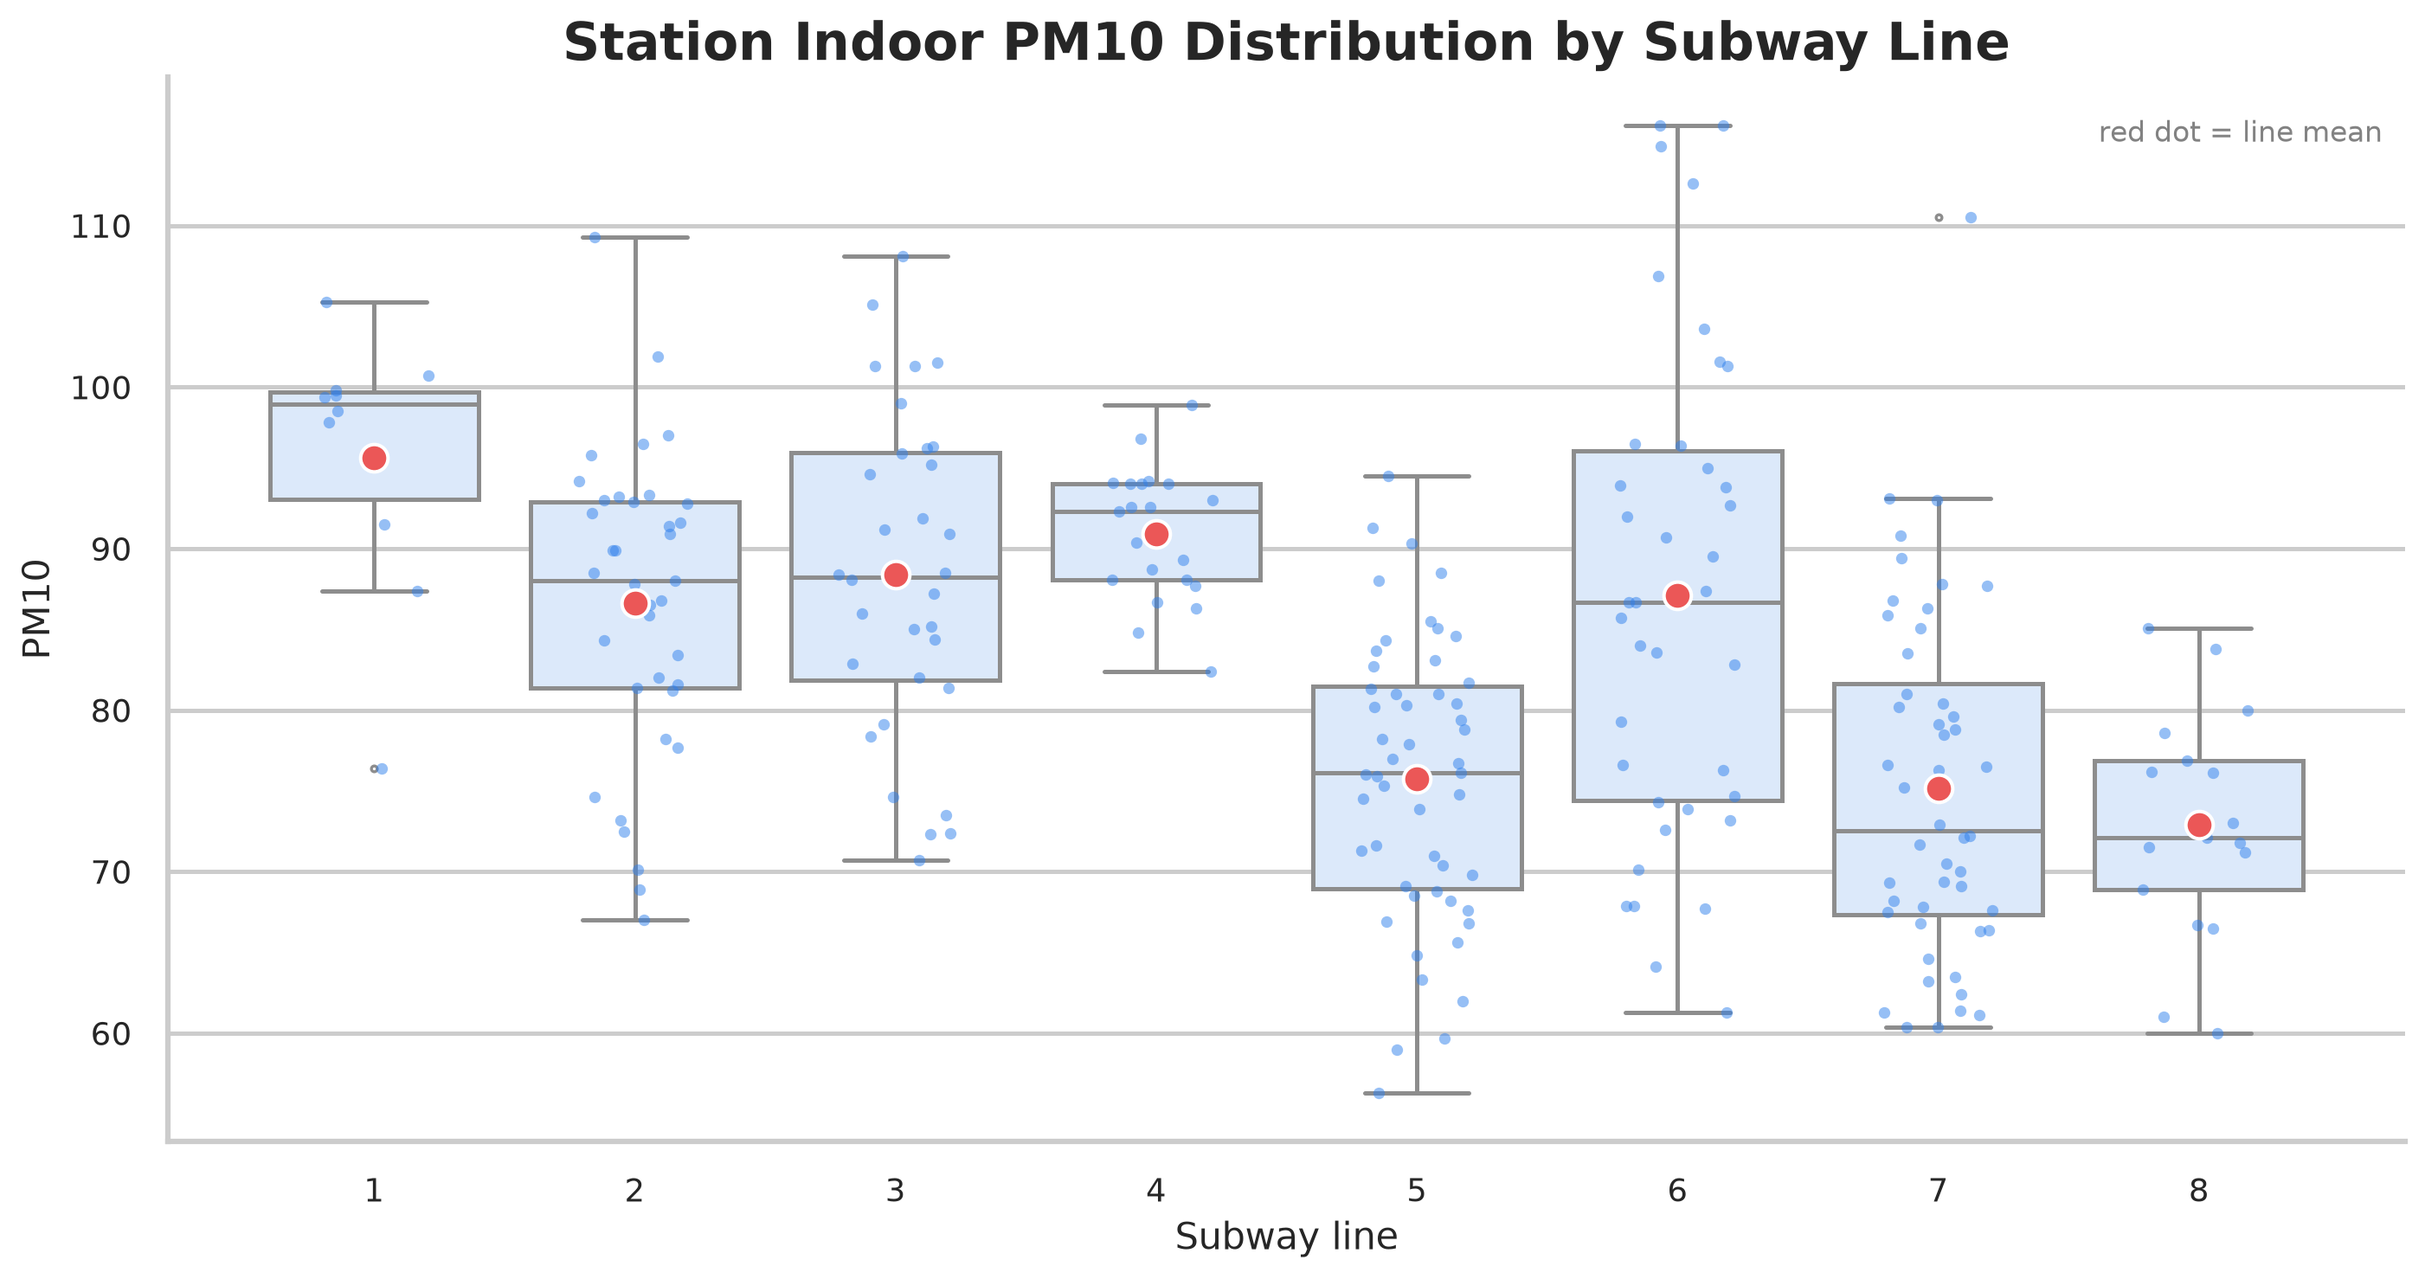
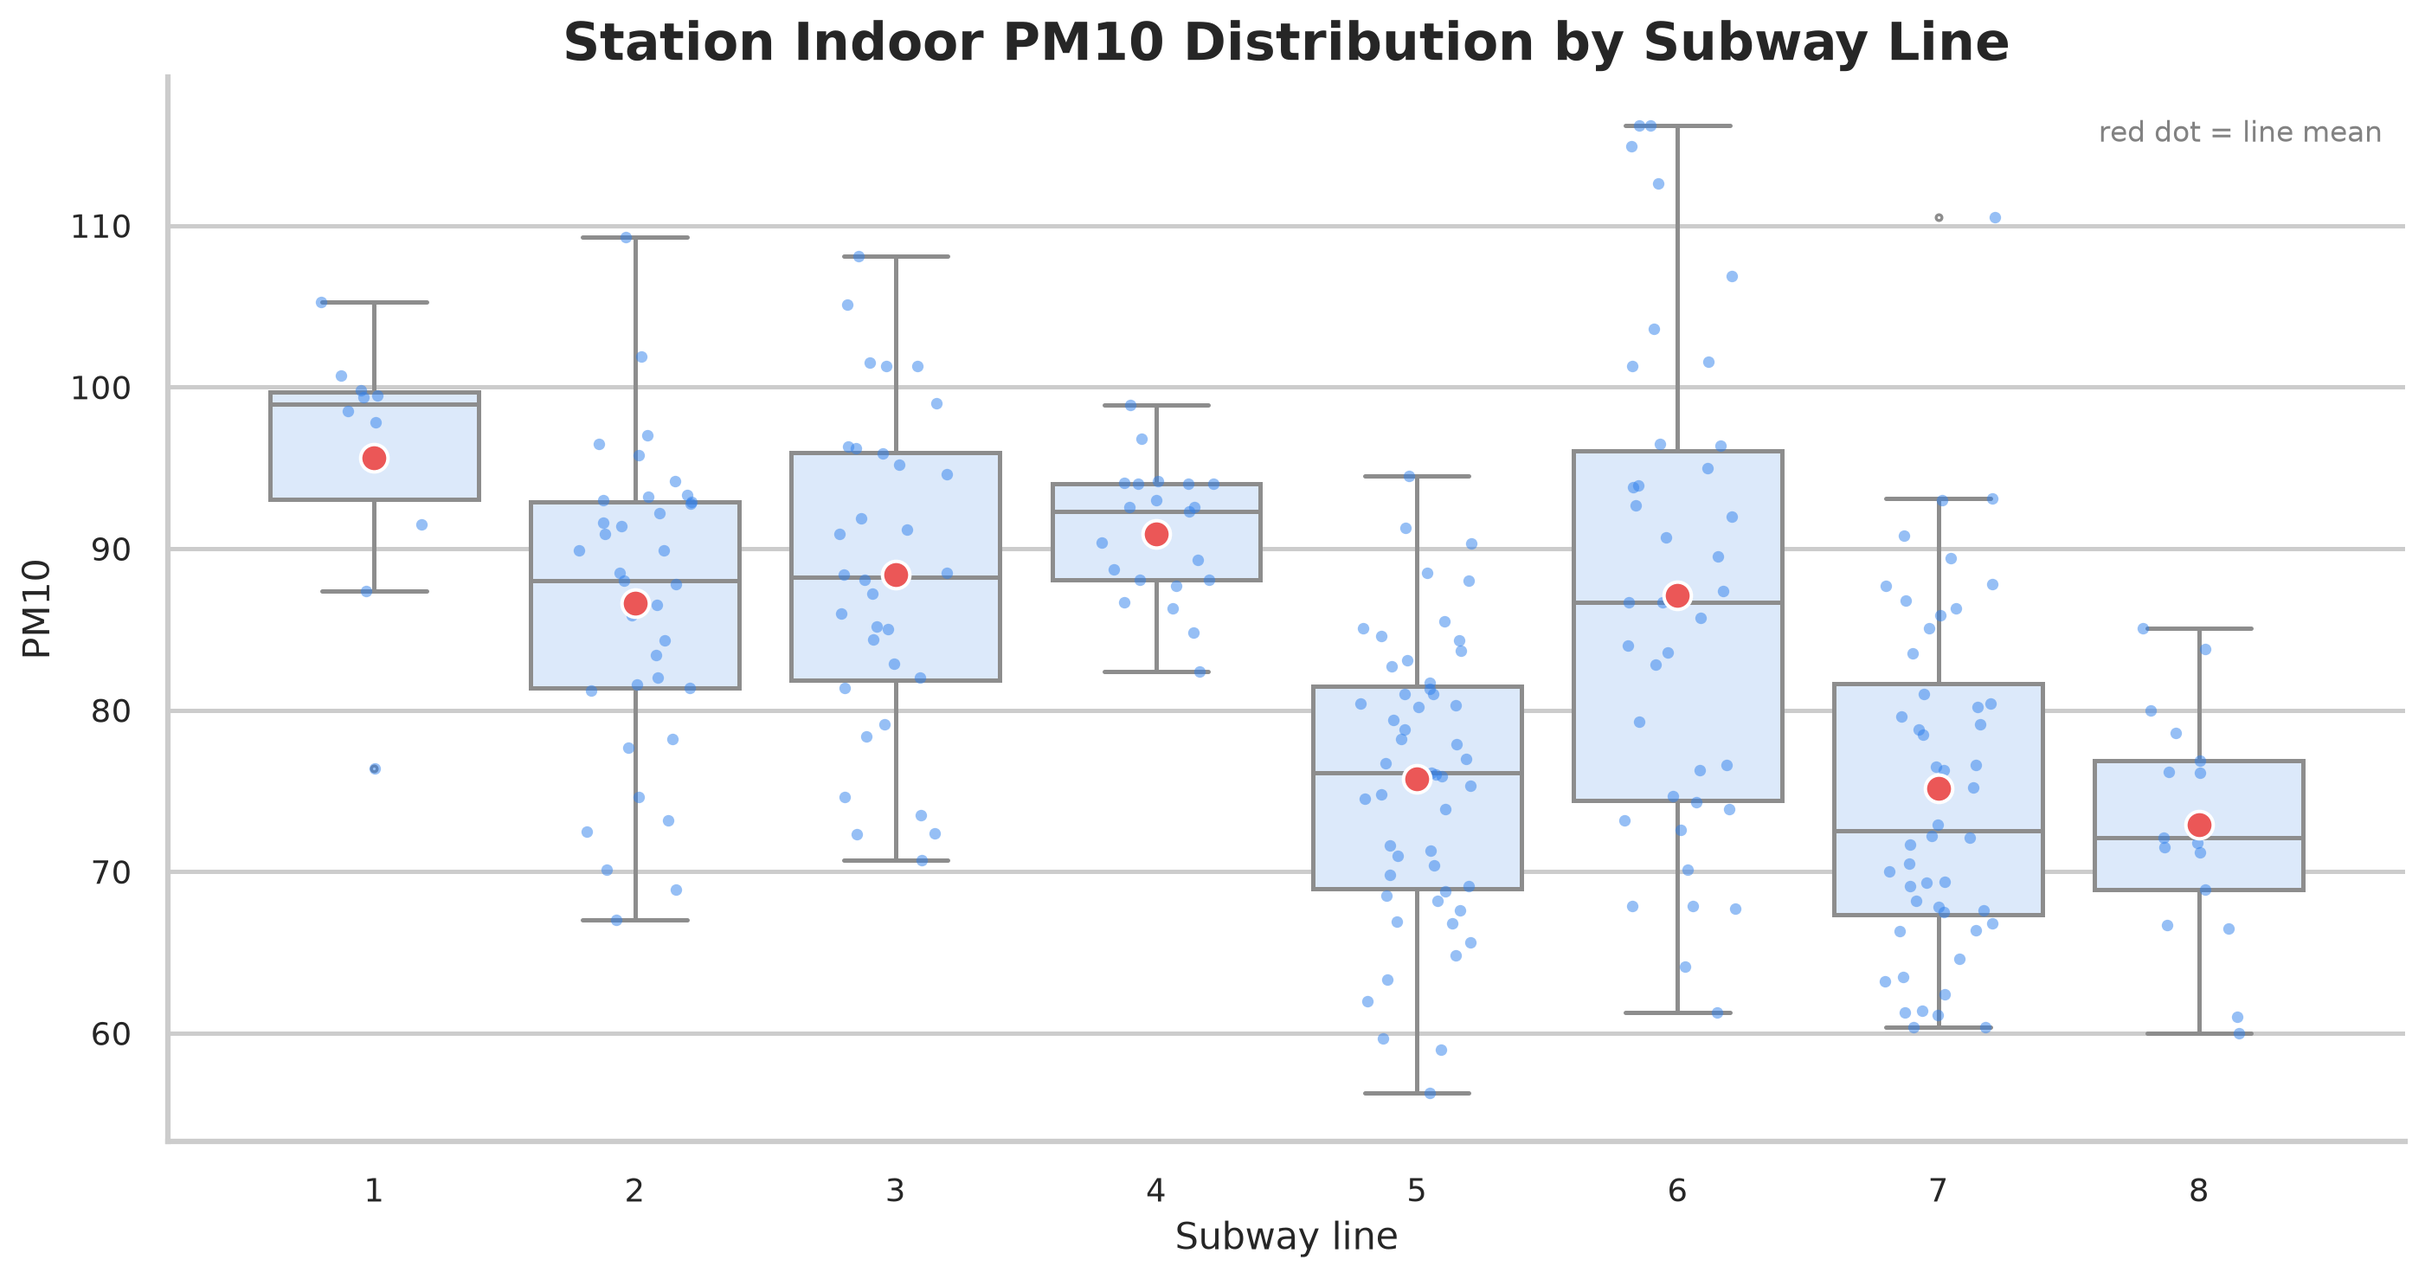
Align README with final presentation flow

diff --git a/scripts/visualize_subway_pm10.py b/scripts/visualize_subway_pm10.py
@@ -247,6 +247,43 @@ def fig_reported_ttest() -> None:
     savefig("fig07_reported_ttest_summary.png")
 
 
+def fig_group_comparison_design() -> None:
+    """Recreate the comparison logic used in the final PDF at a higher visual quality.
+
+    The original slides compare PM10 differences across groups separated by
+    train-operation frequency and congestion. This figure visualizes the design,
+    not a re-estimated test statistic.
+    """
+    groups = [
+        ("Baseline", "Low frequency\nLow congestion", PALETTE["gray"]),
+        ("Frequency effect", "High frequency\nLow congestion", PALETTE["teal"]),
+        ("Combined high", "High frequency\nHigh congestion", PALETTE["blue"]),
+    ]
+    fig, ax = plt.subplots(figsize=(12, 5.8))
+    ax.axis("off")
+    xs = [0.18, 0.5, 0.82]
+    for i, ((title, body, color), x) in enumerate(zip(groups, xs)):
+        rect = plt.Rectangle((x - 0.115, 0.38), 0.23, 0.31, transform=ax.transAxes,
+                             facecolor="white", edgecolor=color, linewidth=2.5)
+        ax.add_patch(rect)
+        ax.text(x, 0.62, title, transform=ax.transAxes, ha="center", va="center",
+                color=color, fontsize=13, fontweight="bold")
+        ax.text(x, 0.49, body, transform=ax.transAxes, ha="center", va="center",
+                color=PALETTE["navy"], fontsize=12)
+    ax.annotate("PM10 difference", xy=(0.39, 0.535), xytext=(0.29, 0.535), xycoords=ax.transAxes,
+                arrowprops=dict(arrowstyle="->", lw=2.2, color=PALETTE["teal"]),
+                ha="center", va="bottom", color=PALETTE["teal"], fontsize=11)
+    ax.annotate("PM10 difference", xy=(0.71, 0.535), xytext=(0.61, 0.535), xycoords=ax.transAxes,
+                arrowprops=dict(arrowstyle="->", lw=2.2, color=PALETTE["blue"]),
+                ha="center", va="bottom", color=PALETTE["blue"], fontsize=11)
+    ax.text(0.5, 0.88, "Group Comparison Design: Frequency vs. Congestion", transform=ax.transAxes,
+            ha="center", fontsize=20, fontweight="bold", color=PALETTE["navy"])
+    ax.text(0.5, 0.22,
+            "Final presentation compared groups that differ in train frequency and/or congestion,\nthen used t-tests to check whether PM10 differences were statistically significant.",
+            transform=ax.transAxes, ha="center", fontsize=12, color=PALETTE["gray"])
+    savefig("fig08_group_comparison_design.png")
+
+
 def main() -> None:
     d1, d2, d3, merged, freq_clean = load_data()
     fig_analysis_flow()
@@ -256,6 +293,7 @@ def main() -> None:
     fig_frequency_overview(merged)
     fig_model_mse()
     fig_reported_ttest()
+    fig_group_comparison_design()
 
     # Save derived table used by several figures for transparent reproducibility.
     derived = merged[["호선", "역사명", "미세먼지(PM10)", "이산화탄소(CO2)", "포름알데히드(HCHO)", "일산화탄소(CO)", "avg_congestion", "freq"]]

diff --git a/README.md b/README.md
@@ -1,31 +1,33 @@
 # 지하철 혼잡도 및 미세먼지 관계 분석
 
 > 전북대학교 통계학과 빅데이터 분석 경진대회 2022 Winter — **최우수상**  
-> 서울 지하철 혼잡도 예측과 역사 내 미세먼지(PM10) 원인 분석 프로젝트
+> 팀 `신통방통`: 고경수 · 문우혁 · 조성현
 
 [Competition](https://www.kaggle.com/c/statjbnu1) · Python/Jupyter · EDA · Machine Learning · Statistical Hypothesis Testing
 
 ---
 
-## 1. Project Summary
+## 발표자료 기반 분석 흐름
 
-이 프로젝트는 서울 지하철 데이터를 활용해 두 가지 질문을 분석했습니다.
+최종 발표자료(`최종본.pdf`)는 두 개의 연구 과제로 구성되어 있습니다.
 
-1. **혼잡도 예측**  
-   조사일자, 호선, 역명, 상·하선 구분, 역 주변 교통시설 여부 등을 활용해 하루 평균 혼잡도를 예측할 수 있는지 확인했습니다.
+1. **혼잡도를 예측하는 모델 구현**
+   - 혼잡도의 개념
+   - 혼잡도 시각화
+   - 변수 선택 및 추가 변수 고려
+   - 선형회귀 / 랜덤포레스트 모델링
 
-2. **미세먼지 원인 분석**  
-   역사 내부 미세먼지 농도가 승객 혼잡도와 관련되는지, 또는 열차 운행 빈도와 같은 다른 요인이 더 큰 영향을 주는지 검토했습니다.
-
-핵심 분석 흐름은 관측 패턴에서 출발해 가설을 세우고, 역별 데이터와 통계 검정을 통해 설명 요인을 비교하는 방식입니다.
+2. **혼잡도와 미세먼지 사이의 관계 분석**
+   - 대기질 데이터 교체 및 추가
+   - 내부/외부 미세먼지 비교
+   - “정말 혼잡도가 원인인가?”라는 원인 분석
+   - 운행 빈도와 혼잡도 조건을 분리한 유의성 검정
 
 ![Analysis Flow](assets/figures/fig01_analysis_flow.png)
 
 ---
 
-## 2. Dataset
-
-데이터는 대회 제공 CSV 3개와 운행 빈도 보조 자료를 사용했습니다.
+## Dataset
 
 | File | Description |
 |---|---|
@@ -42,44 +44,51 @@
 
 ---
 
-## 3. Key Findings
+# 연구 과제 1. 혼잡도를 예측하는 모델 구현
 
-| Topic | Finding |
-|---|---|
-| 혼잡도 패턴 | 평일 평균 혼잡도는 출근·퇴근 시간대에 뚜렷한 peak를 보임 |
-| 역사 PM10 분포 | PM10은 노선별·역별 편차가 존재함 |
-| 혼잡도와 PM10 | 역 단위 평균 혼잡도만으로 PM10 차이를 설명하기에는 한계가 있음 |
-| 대안 요인 | 열차 운행 빈도는 역사 내 공기질과 함께 검토할 수 있는 주요 노선 단위 요인임 |
-| 통계 검정 | 원 프로젝트 요약 기준, 운행 빈도 차이가 있는 집단은 p-value < 0.05, 혼잡도만 차이나는 집단은 p-value = 0.11 |
+## 1.1 혼잡도의 개념
 
----
+혼잡도는 일정 시간 동안 지하철 차량을 이용하는 승객 밀집 정도를 나타내는 지표입니다. 본 프로젝트에서는 서울교통공사 혼잡도 데이터의 30분 단위 값을 사용해 역별·시간대별 혼잡 패턴을 살펴보고, 하루 평균 혼잡도를 예측 대상으로 설정했습니다.
 
-## 4. Part A — 혼잡도 예측 모델링
+참고 문헌:
 
-### 4.1 변수 구성
+- *빅데이터 분석을 이용한 지하철 혼잡도 예측 및 추천시스템*
 
-- 전체 후보 변수
-  - 조사일자: 평일/토요일/일요일
-  - 호선
-  - 역 번호
-  - 역명
-  - 구분: 상선/하선/내선/외선
-  - 시간대별 혼잡도
-- 최종 선택 변수
-  - 조사일자
-  - 호선
-  - 역명
-  - 역 주변 버스터미널 여부
-- 예측 대상
-  - 하루 평균 혼잡도
+## 1.2 혼잡도 시각화
 
-선행연구인 *기계학습을 이용한 서울 지하철 승하차 인원 예측*에서 역 주변 버스터미널 여부가 승하차 수요와 혼잡도에 영향을 줄 수 있다는 내용을 참고해, 해당 정보를 파생변수로 구성했습니다.
-
-### 4.2 시간대별 혼잡도 패턴
+먼저 시간대별 평균 혼잡도를 확인해 출퇴근 시간대 peak가 존재하는지 살펴봤습니다.
 
 ![Average Subway Congestion by Time](assets/figures/fig02_congestion_hourly_profile.png)
 
-### 4.3 모델 비교
+이 시각화는 발표자료의 “혼잡도 시각화” 파트를 재구성한 것으로, 평일 평균 혼잡도가 오전/오후 통근 시간대에 높아지는 구조를 보여줍니다.
+
+## 1.3 변수 선택 및 추가 변수 고려
+
+기본 변수는 다음과 같습니다.
+
+- 조사일자
+- 호선
+- 역 번호
+- 역명
+- 상·하선/내·외선 구분
+- 시간대별 혼잡도
+
+예측 대상은 **하루 평균 혼잡도**로 설정했습니다.
+
+추가 변수로는 역 주변 교통 시설, 특히 **버스터미널 여부**를 고려했습니다. 이는 승하차 인원과 주변 교통 시설의 연관성을 다룬 선행연구를 참고한 것입니다.
+
+참고 문헌:
+
+- *기계학습을 이용한 서울 지하철 승하차 인원 예측*
+
+## 1.4 Modeling
+
+| 항목 | 내용 |
+|---|---|
+| 독립변수 X | 조사일자, 구분, 호선, 버스터미널 여부 |
+| 종속변수 Y | 하루 평균 혼잡도 |
+| 비교 모델 | 선형회귀 모형, 랜덤포레스트 모형 |
+| 평가 지표 | MSE |
 
 | Model | MSE | Note |
 |---|---:|---|
@@ -90,44 +99,81 @@
 
 ---
 
-## 5. Part B — 혼잡도와 미세먼지(PM10)의 관계 분석
+# 연구 과제 2. 혼잡도와 미세먼지 사이의 관계
 
-### 5.1 노선별 역사 PM10 분포
+## 2.1 데이터 교체 및 추가
 
-대회 제공 역사 대기 정보(`data2.csv`)를 사용해 노선별 PM10 분포를 비교했습니다.
+두 번째 연구 과제에서는 혼잡도와 역사 내 미세먼지(PM10)의 관계를 분석했습니다. 발표자료에서는 최신 대기질 데이터를 추가로 참고해 내부/외부 미세먼지 비교를 수행했습니다.
+
+발표자료의 추가 참고 출처:
+
+- <https://www.inair.or.kr/info/reference.html>
+- <https://www.data.go.kr/data/15089266/fileData.do>
+
+현재 repo에서는 대회 제공 역사 대기 정보(`data2.csv`)와 노선별 운행 빈도 보조자료(`new_data4.csv`)를 사용해 재현 가능한 시각화를 제공합니다.
+
+## 2.2 내부 vs 외부 미세먼지 비교
+
+발표자료의 첫 번째 관찰은 **지하철 역사 내부 미세먼지와 외부 미세먼지의 시간대별 패턴 비교**였습니다. 내부 미세먼지가 외부와 다른 시간대 패턴을 보였고, 이를 통해 역사 내부 요인이 PM10 증가에 관여할 가능성을 검토했습니다.
+
+이 repo에서는 공개된 `data2.csv`를 기준으로 노선별 역사 PM10 분포를 먼저 정리했습니다.
 
 ![PM10 by Line](assets/figures/fig03_pm10_by_line_distribution.png)
 
-### 5.2 역 단위 평균 혼잡도와 PM10 비교
+## 2.3 정말 혼잡도가 원인일까?
 
-`data1.csv`의 시간대별 혼잡도를 역 단위 평균 혼잡도로 요약한 뒤, `data2.csv`의 역사별 PM10과 병합했습니다.
+내부 PM10이 출퇴근 시간대에 높아지는 패턴은 혼잡도와 유사해 보일 수 있습니다. 따라서 초기 가설은 “승객 혼잡도가 미세먼지 증가의 원인일 수 있다”였습니다.
+
+이를 확인하기 위해 역 단위 평균 혼잡도와 역사 PM10을 병합해 탐색했습니다.
 
 ![PM10 vs Congestion](assets/figures/fig04_pm10_vs_congestion_scatter.png)
 
 이 비교는 PM10 차이가 단순히 평균 혼잡도 하나만으로 설명되기 어렵다는 점을 확인하기 위한 탐색적 분석입니다.
 
-### 5.3 대안 요인: 열차 운행 빈도
+## 2.4 대안 요인: 열차 운행 빈도
 
-노선별 평일 운행 횟수와 노선 평균 PM10을 함께 비교했습니다.
+발표자료는 “정말 혼잡도가 원인일까?”라는 질문에서 한 단계 더 나아가, 관련 자료와 선행연구를 참고해 **열차 운행 빈도**를 대안 설명 요인으로 검토했습니다.
+
+참고 자료:
+
+- DAP 카카오AI 리포트: 지하철 내 미세먼지 관련 자료
+- *지하철 역사 미세먼지(PM10)의 확산방향과 확산속도 추정*
+
+노선별 평일 운행 횟수와 노선 평균 PM10을 함께 비교하면 다음과 같습니다.
 
 ![Line Frequency and PM10](assets/figures/fig05_line_frequency_pm10_overview.png)
 
-열차 운행 빈도는 노선 단위 변수이기 때문에 역 단위 PM10과 직접적인 인과관계를 의미하지는 않습니다. 다만 혼잡도 외에도 노선 운행 구조를 함께 고려해야 함을 보여주는 보조 분석으로 사용했습니다.
+열차 운행 빈도는 노선 단위 변수이므로 역 단위 PM10에 대한 직접적인 인과관계를 의미하지는 않습니다. 다만 혼잡도 외에도 노선 운행 구조를 함께 고려해야 함을 보여주는 보조 분석으로 사용했습니다.
 
-### 5.4 t-test 기반 유의성 검정
+## 2.5 유의성 검증 설계
 
-원 프로젝트에서는 운행 빈도 차이와 혼잡도 차이를 분리한 집단을 비교하고 t-test를 수행했습니다.
+발표자료에서는 운행 빈도와 혼잡도를 분리해 다음과 같은 집단 비교를 수행했습니다.
+
+- 운행 빈도 낮음 / 혼잡도 낮음
+- 운행 빈도 높음 / 혼잡도 낮음
+- 운행 빈도 높음 / 혼잡도 높음
+
+![Group Comparison Design](assets/figures/fig08_group_comparison_design.png)
+
+이 비교 설계는 “혼잡도만 높을 때도 PM10 차이가 유의한가?”와 “운행 빈도가 다를 때 PM10 차이가 유의한가?”를 분리해 보기 위한 것입니다.
+
+## 2.6 t-test 결과
+
+원 프로젝트 발표자료와 README의 요약 기준 t-test 결과는 다음과 같습니다.
 
 | 비교 조건 | t-test 결과 | 해석 |
 |---|---|---|
-| 운행 빈도 차이가 있는 집단 | p-value < 0.05 | PM10 차이가 통계적으로 유의함 |
-| 혼잡도만 차이가 있는 집단 | p-value = 0.11 | 통계적으로 유의하지 않음 |
+| 운행 빈도 차이 있음, 혼잡도 차이 없음 | p-value < 0.05 | PM10 차이가 통계적으로 유의함 |
+| 운행 빈도 차이 없음, 혼잡도 차이 있음 | p-value = 0.11 | 통계적으로 유의하지 않음 |
+| 운행 빈도와 혼잡도 모두 차이 있음 | PM10 차이 관측 | 두 요인이 함께 다른 조건 |
 
 ![Reported t-test Summary](assets/figures/fig07_reported_ttest_summary.png)
 
+따라서 발표자료의 결론은 **역사 내 PM10 차이를 설명할 때 승객 혼잡도만 보기보다 열차 운행 빈도와 운행 구조를 함께 고려해야 한다**는 방향으로 정리됩니다.
+
 ---
 
-## 6. Reproducibility
+## Reproducibility
 
 새 시각화는 아래 스크립트로 재생성할 수 있습니다.
 
@@ -146,12 +192,14 @@ assets/figures/
 ├── fig05_line_frequency_pm10_overview.png
 ├── fig06_model_mse_comparison.png
 ├── fig07_reported_ttest_summary.png
-└── derived_station_pm10_congestion_frequency.csv
+└── fig08_group_comparison_design.png
 ```
+
+> Note: `fig07_reported_ttest_summary.png`는 원 프로젝트 발표자료/README에 기록된 p-value를 요약 시각화한 것입니다. 정확한 원본 t-test 집단 정의와 추가 전처리 자료 전체를 복원한 재계산 결과는 아닙니다.
 
 ---
 
-## 7. Repository Structure
+## Repository Structure
 
 ```text
 .
@@ -166,7 +214,8 @@ assets/figures/
 │   ├── fig04_pm10_vs_congestion_scatter.png
 │   ├── fig05_line_frequency_pm10_overview.png
 │   ├── fig06_model_mse_comparison.png
-│   └── fig07_reported_ttest_summary.png
+│   ├── fig07_reported_ttest_summary.png
+│   └── fig08_group_comparison_design.png
 ├── scripts/visualize_subway_pm10.py
 ├── FINAL.ipynb
 ├── train.ipynb
